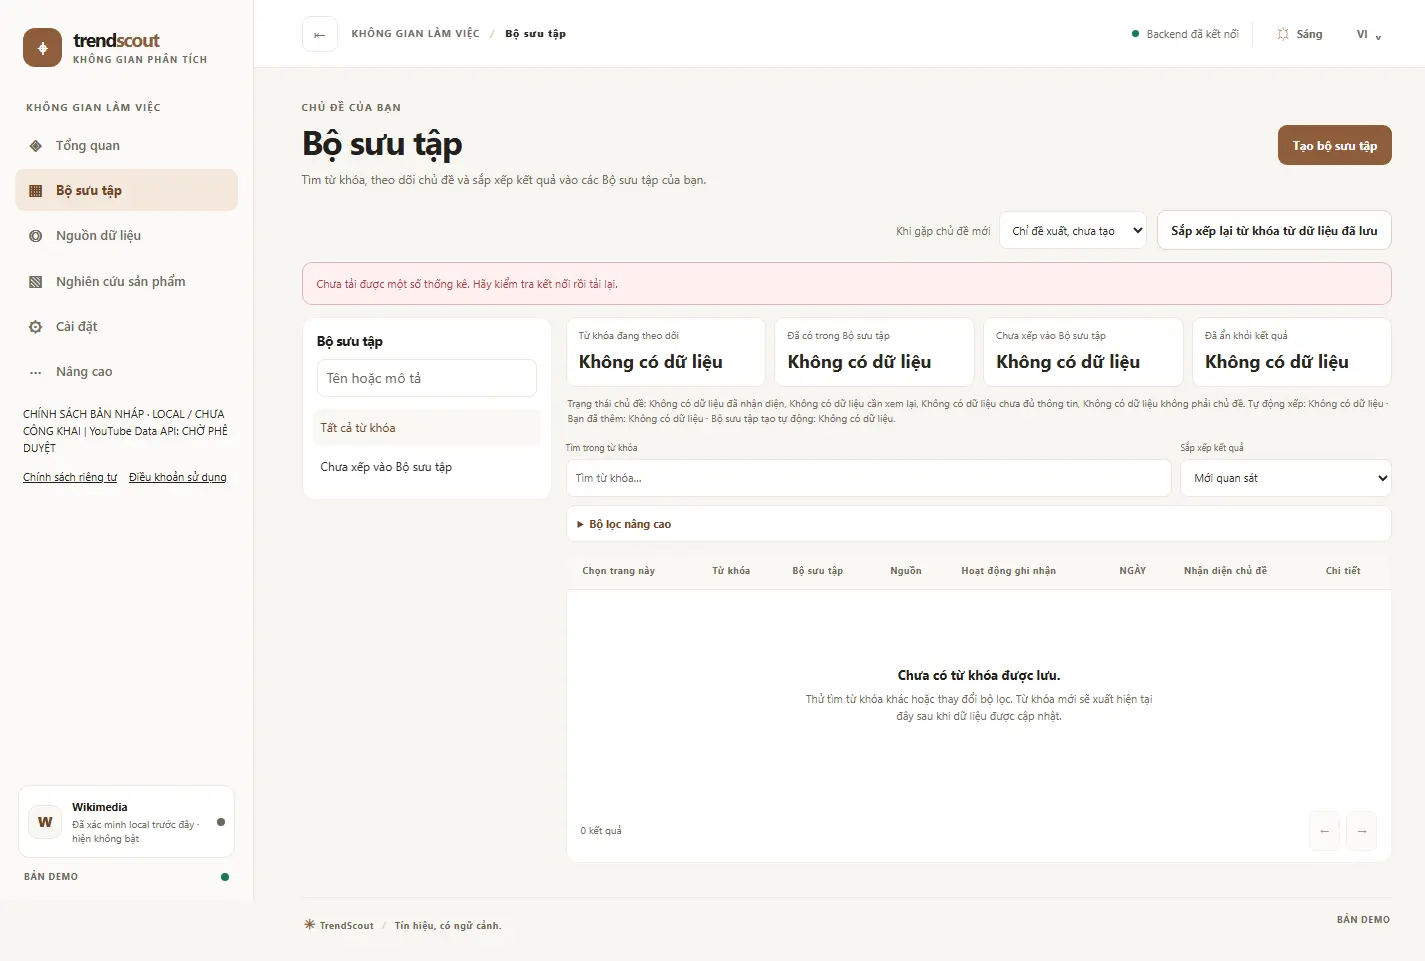
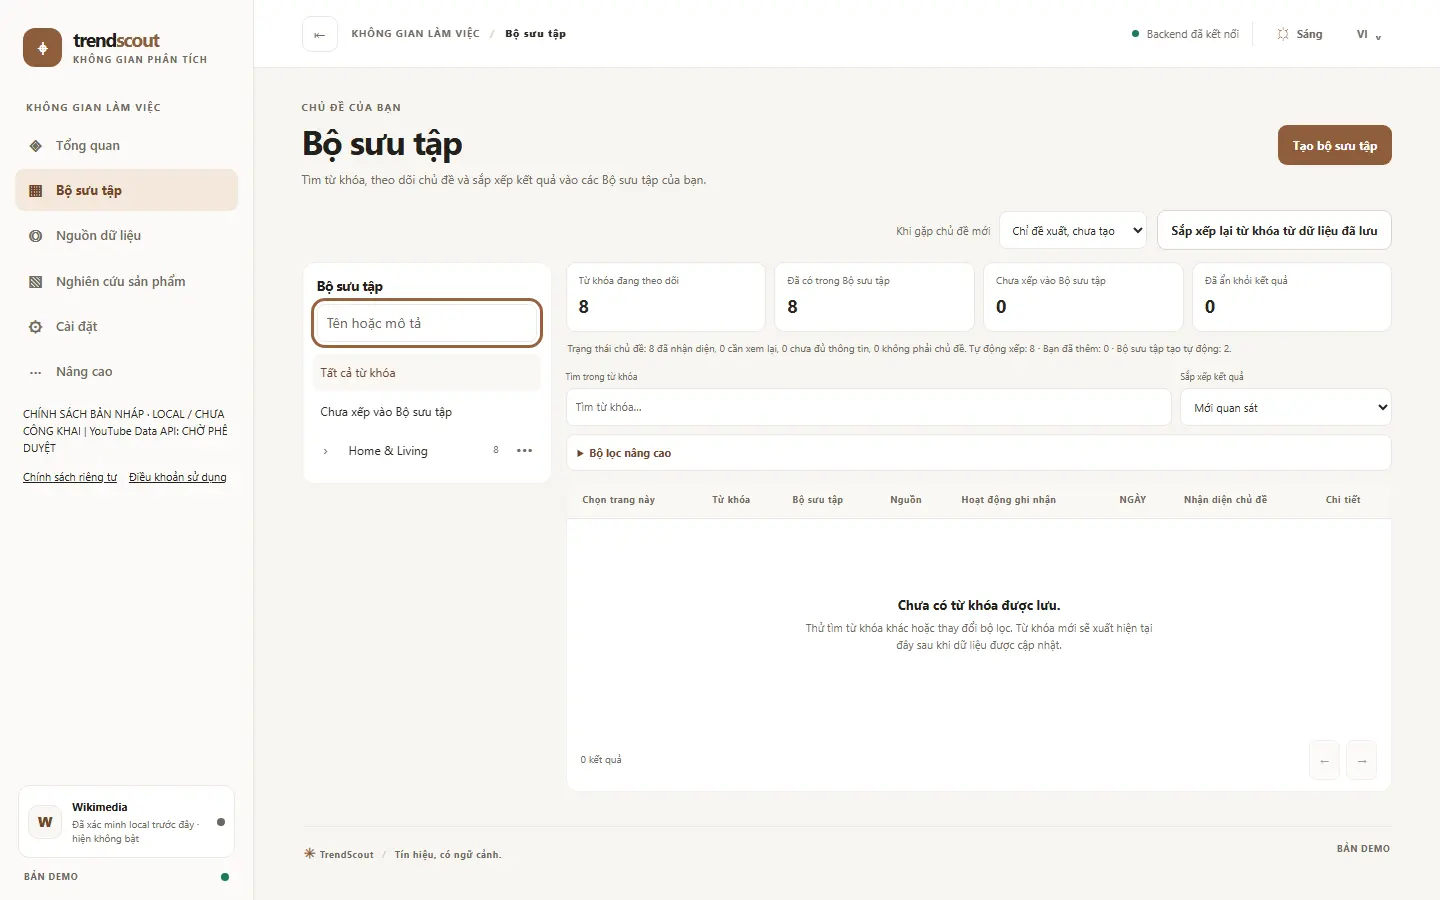
fix(collections): count saved keywords across collapsed trees

diff --git a/Frontend/public/modules/keyword-workbench.js b/Frontend/public/modules/keyword-workbench.js
@@ -253,7 +253,12 @@ function renderTree() {
        const row=make('div','','workbench-tree-row'); row.dataset.collectionNode='';row.dataset.collectionId=item.id; row.style.setProperty('--tree-depth',depth); const active=state.collectionId===item.id;const descendantMatch=descendants.some(child=>hasMatch(child));if(search&&descendantMatch)state.expanded.add(item.id);
        if(descendants.length){const disclosure=button(state.expanded.has(item.id)?'⌄':'›','workbench-disclosure'); disclosure.setAttribute('aria-expanded',String(state.expanded.has(item.id))); disclosure.setAttribute('aria-label',labels(state.expanded.has(item.id)?'workbench.collapse':'workbench.expand',state.expanded.has(item.id)?'Collapse':'Expand')); disclosure.addEventListener('click',()=>{state.expanded.has(item.id)?state.expanded.delete(item.id):state.expanded.add(item.id);renderTree();}); row.append(disclosure);} else row.append(make('span','','workbench-disclosure-spacer'));
       const choose=button(nameOf(item),'workbench-tree-item'); choose.classList.toggle('is-active',active); choose.setAttribute('aria-current',active?'page':'false'); choose.addEventListener('click',()=>selectView(item.id,'all'));
-       const countValue=descendants.length?(item.subtree_unique_keyword_count??item.direct_membership_count??item.membership_count):(item.direct_membership_count??item.membership_count);const count=make('span',displayCount(countValue),'workbench-tree-count'); count.title=countValue===null||countValue===undefined?labels('workbench.count-unavailable','Keyword count unavailable'):formatted(descendants.length?'workbench.subtree-count':'workbench.direct-count',{count:number(countValue)},descendants.length?'{count} unique keywords in this Collection and its subcollections':'{count} keywords in this Collection'); count.setAttribute('aria-label',count.title); choose.append(count); row.append(choose);
+       const countValue=item.subtree_unique_keyword_count??item.membership_count??item.direct_membership_count;
+       const count=make('span',displayCount(countValue),'workbench-tree-count');
+       count.title=countValue===null||countValue===undefined
+         ?labels('workbench.count-unavailable','Keyword count unavailable')
+         :formatted('workbench.subtree-count',{count:number(countValue)},'{count} unique keywords in this Collection and its subcollections');
+       count.setAttribute('aria-label',count.title); choose.append(count); row.append(choose);
       const menu=button('•••','workbench-context-button'); menu.setAttribute('aria-label',labels('workbench.collection-actions','Collection actions')); menu.addEventListener('click',()=>openManageDialog(item)); row.append(menu);
        if(!matches&&search&&!descendantMatch) row.hidden=true; parent.append(row);
        if(descendants.length&&(state.expanded.has(item.id)||search&&descendantMatch)){const group=make('div','','workbench-tree-children');group.setAttribute('role','group');append(group,item.id,depth+1);parent.append(group);}

diff --git a/Backend/tests/browser_d2_visual_offline.py b/Backend/tests/browser_d2_visual_offline.py
@@ -30,7 +30,10 @@ window.fetch=(path,options={})=>{
   if(value==='/api/v1/scheduler')return Promise.resolve(new Response(JSON.stringify({items:[],implemented:true,enabled:false,worker_running:false}),{status:200}));
   if(value==='/api/v1/algorithms')return Promise.resolve(new Response(JSON.stringify({evaluation_status:'NOT_YET_EVALUATED',algorithms:[{algorithm_id:'observed-volume-rank',version:'v3',name:'Observed volume rank'}]}),{status:200}));
   if(value==='/api/v1/algorithms/results')return Promise.resolve(new Response(JSON.stringify({summary:[],items:[]}),{status:200}));
-  if(value==='/api/v1/collections')return Promise.resolve(new Response(JSON.stringify({items:[],suggestions:[],mode:'SUGGEST_ONLY',summary:{}}),{status:200}));
+  if(value==='/api/v1/collections')return Promise.resolve(new Response(JSON.stringify({items:[
+    {id:'fixture-parent',name:'Home & Living',parent_id:null,membership_count:8,direct_membership_count:0,subtree_unique_keyword_count:8,created_by:'AI',auto_match:true},
+    {id:'fixture-child',name:'Smart Home',parent_id:'fixture-parent',membership_count:8,direct_membership_count:8,subtree_unique_keyword_count:8,created_by:'AI',auto_match:true}
+  ],suggestions:[],mode:'SUGGEST_ONLY',summary:{eligible_keywords:8,assigned_keywords:8,unclassified_keywords:0,excluded_keywords:0,classified_keywords:8,ambiguous_keywords:0,unknown_keywords:0,ineligible_topic_keywords:0,ai_assigned_keywords:8,manually_managed_keywords:0,ai_created_collections:2}}),{status:200}));
   if(value==='/api/v1/collections/inbox')return Promise.resolve(new Response(JSON.stringify({items:[],total:0}),{status:200}));
   if(value==='/api/v1/research')return Promise.resolve(new Response(JSON.stringify({items:[],total:0}),{status:200}));
   if(value==='/api/v1/runs/history')return Promise.resolve(new Response(JSON.stringify({items:[{fetch_id:'e'.repeat(32),run_at:'2026-11-11T03:00:00Z',run_type:'FETCH',sources:['wikimedia_pageviews_top_per_country'],status:'PARTIAL',received_record_count:4,retained_keyword_count:3,rejected_record_count:1,mode:'SYNTHETIC',error_code:'SOURCE_PARTIAL',stage:'DONE',quality_flags:['SYNTHETIC_FIXTURE']}],total:1,next_offset:null}),{status:200}));
@@ -241,9 +244,9 @@ window.waitFor=async function(p){for(let n=0;n<100;n++){if(p())return true;await
 
             set_preferences("light", "vi")
             for view in ("analysis", "collections", "sources", "runs", "algorithms", "quality", "research", "settings"):
-                go(view)
                 for width in (390, 1440):
                     set_viewport(width, 900 if width > 500 else 820)
+                    go(view)
                     if view == "runs" and width == 390 and not evaluate("window.waitFor(()=>Boolean(document.querySelector('#run-history tbody td[data-label]')))", await_promise=True):
                         raise RuntimeError("Run History fixture did not load for mobile layout review: " + str(evaluate("JSON.stringify({requests:window.fetchRequests.filter(path=>path.includes('/api/v1/runs/history')),content:document.querySelector('#run-history')?.textContent})")))
                     time.sleep(0.18)
@@ -253,6 +256,21 @@ window.waitFor=async function(p){for(let n=0;n<100;n++){if(p())return true;await
                         raise RuntimeError("Run History exposed raw diagnostic codes instead of a localized partial-data explanation")
                     if view == "analysis" and width == 390 and not evaluate("Boolean(document.querySelector('#analysis-source-volume tbody td[data-label]'))"):
                         raise RuntimeError("mobile Analysis rows are missing their column labels")
+                    if view == "collections" and width == 390:
+                        if not evaluate("waitFor(()=>Boolean(document.querySelector('#workbench-filter-toggle')))", await_promise=True):
+                            raise RuntimeError("mobile Collection filter toggle was not mounted")
+                        evaluate("document.querySelector('#workbench-filter-toggle')?.click()")
+                        time.sleep(0.24)
+                        drawer_width = evaluate("document.querySelector('#workbench-sidebar')?.getBoundingClientRect().width || 0")
+                        if drawer_width < 280:
+                            raise RuntimeError(f"mobile Collection drawer is clipped to {drawer_width}px")
+                        drawer_left = evaluate("document.querySelector('#workbench-sidebar')?.getBoundingClientRect().left ?? -1")
+                        if drawer_left < 0:
+                            geometry = evaluate("JSON.stringify({innerWidth,scrollX,open:document.querySelector('#workbench-sidebar')?.className,expanded:document.querySelector('#workbench-filter-toggle')?.getAttribute('aria-expanded'),left:document.querySelector('#workbench-sidebar')?.getBoundingClientRect().left,transform:getComputedStyle(document.querySelector('#workbench-sidebar')).transform})")
+                            raise RuntimeError(f"mobile Collection drawer starts outside the viewport at {drawer_left}px: {geometry}")
+                        count_ready = evaluate("waitFor(()=>document.querySelector('[data-collection-id=fixture-parent] .workbench-tree-count')?.textContent==='8')", await_promise=True)
+                        if not count_ready:
+                            raise RuntimeError("collapsed Collection did not show saved descendant keywords")
                     capture(f"screen-{view}-{width}-vi-light.webp", width, configure=False)
 
             set_viewport(1280)

diff --git a/Backend/tests/browser_workspace_offline.py b/Backend/tests/browser_workspace_offline.py
@@ -52,7 +52,9 @@ window.fetch=(path,opts={})=>{
   if(p==='/api/v1/collections')return Promise.resolve(new Response(JSON.stringify({
     mode:'AUTO_CREATE',items:[
       {id:'collection-a',name:'Fixture Collection A',description:'Parent Collection',examples:[],exclusions:[],membership_count:2,direct_membership_count:2,subtree_unique_keyword_count:2,created_by:'USER',auto_match:false},
-      {id:'collection-b',name:'Fixture Collection B',description:'Merge destination',examples:[],exclusions:[],membership_count:1,direct_membership_count:1,subtree_unique_keyword_count:1,created_by:'USER',auto_match:false}
+      {id:'collection-b',name:'Fixture Collection B',description:'Merge destination',examples:[],exclusions:[],membership_count:1,direct_membership_count:1,subtree_unique_keyword_count:1,created_by:'USER',auto_match:false},
+      {id:'collection-parent',name:'Parent with saved topics',description:'Parent with child records',examples:[],exclusions:[],membership_count:2,direct_membership_count:0,subtree_unique_keyword_count:2,created_by:'AI',auto_match:false},
+      {id:'collection-child',name:'Saved child topics',description:'Child records',parent_id:'collection-parent',examples:[],exclusions:[],membership_count:2,direct_membership_count:2,subtree_unique_keyword_count:2,created_by:'AI',auto_match:false}
     ],suggestions:[],summary:{eligible_keywords:3,assigned_keywords:3,unclassified_keywords:0,excluded_keywords:0,classified_keywords:3,ambiguous_keywords:0,unknown_keywords:0,ineligible_topic_keywords:0,ai_assigned_keywords:0,manually_managed_keywords:3,ai_created_collections:0,sources:[]}
   }),{status:200}));
   if(p.startsWith('/api/v1/datasets/latest/keywords?'))return Promise.resolve(new Response(JSON.stringify({items:[],total:0,next_offset:null}),{status:200}));
@@ -140,6 +142,18 @@ CHECK = r"""<script>
     }
     const {applyLocale}=await import(I18N_MODULE_URI);
     await go('collections');await wait(80);
+    if(innerWidth<=900){
+      const filterToggle=document.querySelector('#workbench-filter-toggle');
+      filterToggle.click();
+      check(document.querySelector('#workbench-sidebar').classList.contains('is-open'),'mobile Collection filters open');
+      check(document.querySelector('#workbench-sidebar').contains(document.activeElement),'opening Collection filters moves focus inside');
+      document.dispatchEvent(new KeyboardEvent('keydown',{key:'Escape',bubbles:true}));
+      check(!document.querySelector('#workbench-sidebar').classList.contains('is-open'),'Escape closes mobile Collection filters');
+      check(document.activeElement===filterToggle,'closing Collection filters restores trigger focus');
+    }
+    const collapsedParent=document.querySelector('[data-collection-id="collection-parent"]');
+    check(collapsedParent?.querySelector('.workbench-disclosure')?.getAttribute('aria-expanded')==='false','parent Collection starts collapsed in the fixture');
+    check(collapsedParent?.querySelector('.workbench-tree-count')?.textContent==='2','collapsed parent shows unique keywords saved in its child Collections');
     document.querySelector('.workbench-context-button')?.click();
     const picker=document.querySelector('.collection-picker');
     const pickerTrigger=picker?.querySelector('[role=combobox]');

diff --git a/Documents/Reports/OVERNIGHT_G2_G7_FINAL_REPORT.md b/Documents/Reports/OVERNIGHT_G2_G7_FINAL_REPORT.md
@@ -16,7 +16,7 @@
 
 | Phase | State | Implemented and evidence | Remaining acceptance gap |
 |---|---|---|---|
-| G2 — contextual classification and Collection quality | **PASS for the local replay scope** | Versioned `contextual-classifier-v1.2` policy is consumed by the local classifier; taxonomy is `topics-v1.4`; bounded official Wikipedia/Wikidata context lookups were used for uncached/stale saved keyword context; the 154-row reconciliation preserved all observations and manual decisions. | The store has only 154 eligible records, so this is acceptance for this actual local dataset, not a claim about future records. Six records remain without a Collection by design. |
+| G2 — contextual classification and Collection quality | **PASS for the local replay scope** | Versioned `contextual-classifier-v1.2` policy is consumed by the local classifier; taxonomy is `topics-v1.4`; bounded official Wikipedia/Wikidata context lookups were used for uncached/stale saved keyword context; the 154-row reconciliation preserved all observations and manual decisions. | The store has only 154 eligible records, so this is acceptance for this actual local dataset, not a claim about future records. Six records remain without a Collection by design. Collection tree counts now include unique saved keywords from descendant Collections even while a parent is collapsed. |
 | G3 — Source Center | **PASS for local registry and saved-operation evidence** | Runtime source descriptions are backend-driven. Source cards now show the latest saved Fetch status, per-source record count and recorded timestamp from SQLite; this is saved history, not provider-online health. The UI separates integration/configuration/approval/local-live/production status and states quota as unknown when it is not measured. The 81-entry catalog is explicitly research-only and locked, separate from runtime adapters. | Only the existing Wikimedia Pageviews source has persisted observations. Other candidates are not integrated, approved, or quota-verified. Inventory research was last audited 2026-11-11 and needs revalidation before integration. |
 | G4 - Dashboard and analytics | **PARTIAL** | Overview shows a persisted comparable-cohort Top 5 chart. Analysis charts saved keywords by source, algorithm-result rows by outcome, Fetch run status by source, per-source/per-day observed versus unavailable counts, and a source/date coverage heatmap; accessible source-level tables remain alongside them. Algorithm effectiveness is explicitly `NOT_YET_EVALUATED`, with a localized explanation rather than a fabricated score. | Counts are record/run counts, not demand, audience or accuracy. One-source coverage cannot establish cross-source overlap; filters remain disabled until compatible windows and measures exist. |
 | G5 — Run History | **PARTIAL** | Search/status/mode filtering, pagination and details read persistent SQLite `fetch_jobs`, stored snapshots and the AnalysisStorage run ledger. A bounded registry contract returns up to 100 newest manual runs; a truncated-history flag is returned at the cap. The UI shows recorded duration or “not recorded”, localizes run type/source/status/mode and known partial/failure explanations, and adds column labels to mobile rows. Offline fake and Firestore-stub contracts plus API tests pass. | Firestore emulator integration remains unverified in this environment; older-than-100 manual runs are not included in the merged search window. |
@@ -84,7 +84,7 @@ The taxonomy retained stable IDs and added evidenced leaves for settlements, mon
 - Full backend suite from `Backend/`: **773 passed, 767 subtests passed**. The Firestore emulator integration path was also explicitly attempted with a temporary, checksum-verified Microsoft OpenJDK 21 and Firebase CLI 15.36.0 outside the repo and the official emulator on loopback. Its first guarded test failed before client creation because `create_guarded_emulator_client` requires an isolated Linux network namespace and `/proc/net/*`; native Windows has no `/proc`, and no WSL distribution or `bwrap` is available. The emulator was stopped. The safety guard was not bypassed, and no Firestore production endpoint was contacted. The two demo discovery failures from the preceding run are fixed and now pass.
 - Native Chrome offline workspace: passed at 320, 390, 768, 1024, 1440 and 1920 px for locale/theme persistence, all views, read-only API access and XSS handling. The Collection merge picker passed keyboard selection, review-step handoff and Escape dismissal in Vietnamese/English and light/dark in the isolated fixture. The mobile navigation drawer also passed open/focus/Escape/focus-return checks. No merge was committed and no Fetch occurred.
 - Fresh overview screenshots: 24 combinations at six widths, Vietnamese/English and light/dark are in `Documents/Reports/windows-evidence/overnight-g2-g7/`. Screenshots use an isolated synthetic browser fixture. Five earlier G2 evidence images are also retained in that directory.
-- Offline Chrome visual/workspace checks passed at **320, 390, 768, 1024, 1440 and 1920 px**. Overview evidence covers VI/EN and light/dark; fresh VI/light screenshots now cover Analysis, Collections, Sources, Run History, Algorithms, Quality, Product Research and Settings at 390 and 1440 px. Run History and Analysis mobile tables show localized column names and do not cause document-level horizontal overflow. Workspace checks cover locale/theme persistence, read-only API behavior and XSS fixtures. Offline browser checks exercise the Analysis charts, Settings scheduler empty state, and localized system/storage status. These use synthetic/offline fixtures, not provider Fetch.
+- Offline Chrome visual/workspace checks passed at **320, 390, 768, 1024, 1440 and 1920 px**. Overview evidence covers VI/EN and light/dark; fresh VI/light screenshots now cover Analysis, Collections, Sources, Run History, Algorithms, Quality, Product Research and Settings at 390 and 1440 px. Run History and Analysis mobile tables show localized column names and do not cause document-level horizontal overflow. The collapsed Collection parent-count case is covered by an offline Chrome fixture with saved child keywords. Workspace checks cover locale/theme persistence, read-only API behavior and XSS fixtures. Offline browser checks exercise the Analysis charts, Settings scheduler empty state, and localized system/storage status. These use synthetic/offline fixtures, not provider Fetch.
 - `node --check` passed for `Frontend/public/app.js` and `Frontend/public/modules/capabilities.js`; Python compilation passed for changed backend modules; `git diff --check` passed (Git emitted only line-ending normalization warnings).
 - Reviewed Lucian UX/UI Prompt's light/dark, keyboard/touch and reduced-motion guidance and its catalog. Applied the #031 custom listbox pattern to the Collection merge destination: clear selected state, themed popup, keyboard arrows/Home/End/Enter/Escape/typeahead, outside-click dismissal and no native blue highlight. The existing Overview segmented tabs remain unchanged. The implementation is adapted to the project's theme tokens and Collection data; no dependency was added. [Lucian UX/UI Prompt](https://lucianlabs.dev/en/uxui-prompt/introducing/), [catalog entry #031](https://github.com/Seokwoooo/lucian-uxui-prompt/blob/main/api/v1/en/e/031.txt).
 - Fresh screenshots cover all eight major user views at 390 and 1440 px in VI/light; Overview also covers all six widths in VI/EN and light/dark. Other views do not yet have screenshot coverage for every width/theme combination. Keyboard-only workflows beyond the Collection merge picker, complete modal/mobile-drawer journeys and a server restart acceptance pass remain incomplete.
